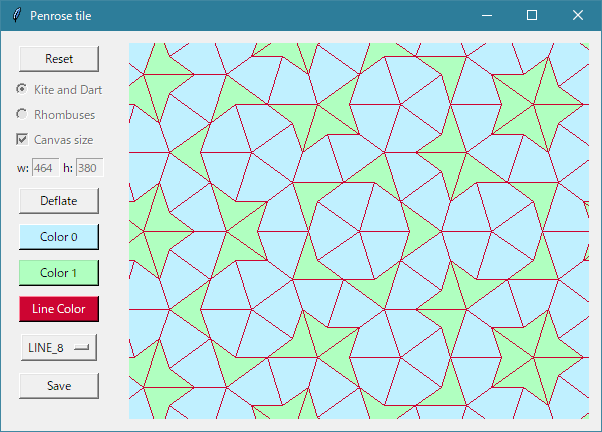
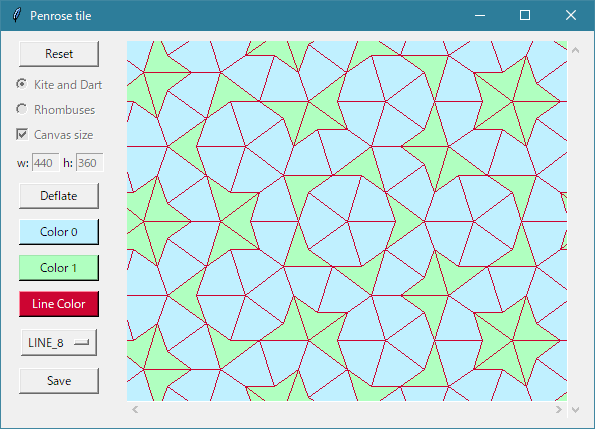
Canvas is scrollable

diff --git a/penrose_tile.py b/penrose_tile.py
@@ -181,7 +181,7 @@ class MainWindow(tk.Tk):
     """
     def __init__(self):
         super().__init__()
-        self.minsize(600, 400)
+        self.minsize(593, 397)
         self.title("Penrose tile")
 
         # モード
@@ -218,12 +218,12 @@ class MainWindow(tk.Tk):
         """
         # ボタン用のフレーム (サイドバー)
         self.button_frame = tk.Frame()
-        self.button_frame.pack(padx=5, pady=10, side=tk.LEFT, fill=tk.Y)
+        self.button_frame.pack(padx=5, pady=5, side=tk.LEFT, fill=tk.Y)
 
         # キャンバス用のフレーム
         self.canvas_frame = tk.Frame()
         self.canvas_frame.pack(
-            padx=5, pady=5, side=tk.LEFT, fill=tk.BOTH, expand=1)
+            padx=10, pady=10, side=tk.LEFT, fill=tk.BOTH, expand=1)
 
         # リセットボタン
         self.reset_btn = tk.Button(
@@ -254,21 +254,21 @@ class MainWindow(tk.Tk):
 
         # ラベル (w:)
         w_lbl = tk.Label(dims_frame, text='w:')
-        w_lbl.pack(padx=0, pady=0, side=tk.LEFT, anchor=tk.W)
+        w_lbl.pack(side=tk.LEFT, anchor=tk.W)
 
         # サイズ (w) のテキストフィールド
         self.w_txt = tk.Entry(dims_frame, width=4, state=tk.DISABLED)
-        self.w_txt.pack(padx=0, pady=0, side=tk.LEFT, anchor=tk.W)
+        self.w_txt.pack(side=tk.LEFT, anchor=tk.W)
         vcmd_w = (self.w_txt.register(validate_digit), '%s', '%P')
         self.w_txt.configure(validate='key', vcmd=vcmd_w)
 
         # ラベル (h:)
         h_lbl = tk.Label(dims_frame, text='h:')
-        h_lbl.pack(padx=0, pady=0, side=tk.LEFT, anchor=tk.W)
+        h_lbl.pack(side=tk.LEFT, anchor=tk.W)
 
         # サイズ (h) のテキストフィールド
         self.h_txt = tk.Entry(dims_frame, width=4, state=tk.DISABLED)
-        self.h_txt.pack(padx=0, pady=0, side=tk.LEFT, anchor=tk.W)
+        self.h_txt.pack(side=tk.LEFT, anchor=tk.W)
         vcmd_h = (self.h_txt.register(validate_digit), '%s', '%P')
         self.h_txt.configure(validate='key', vcmd=vcmd_w)
 
@@ -311,10 +311,25 @@ class MainWindow(tk.Tk):
             text='Save', command=self.save, width=10, state=tk.DISABLED)
         self.save_btn.pack(padx=5, pady=5, side=tk.TOP)
 
+        # 縦スクロールバー
+        self.bar_y = tk.Scrollbar(self.canvas_frame, orient=tk.VERTICAL)
+        self.bar_y.pack(side=tk.RIGHT, fill=tk.Y)
+
+        # 横スクロールバー
+        self.bar_x = tk.Scrollbar(self.canvas_frame, orient=tk.HORIZONTAL)
+        self.bar_x.pack(side=tk.BOTTOM, fill=tk.X)
+
         # キャンバス
-        self.canvas = tk.Canvas(self.canvas_frame, bg='white')
-        self.canvas.pack(padx=5, pady=5, fill=tk.BOTH, expand=1)
+        self.canvas = tk.Canvas(
+            self.canvas_frame, bd=0, highlightthickness=0, bg='white')
+        self.canvas.pack(fill=tk.BOTH, expand=1)
         self.canvas.bind('<Configure>', self.canvas_resized)
+
+        # スクロールバーの関連付け
+        self.bar_y.config(command=self.canvas.yview)
+        self.bar_x.config(command=self.canvas.xview)
+        self.canvas.config(
+            yscrollcommand=self.bar_y.set, xscrollcommand=self.bar_x.set)
 
     def reset(self):
         """状態をリセットして設定を編集可能にする
@@ -344,6 +359,9 @@ class MainWindow(tk.Tk):
             self.indicate_canvas_size()
             self.w_txt['state'] = tk.DISABLED
             self.h_txt['state'] = tk.DISABLED
+
+        # キャンバスのスクロール範囲をリセット
+        self.canvas.config(scrollregion=(0, 0, 0, 0))
 
         # 収縮ボタンのテキストを変更する
         self.def_btn['text'] = 'Initialize'
@@ -392,6 +410,12 @@ class MainWindow(tk.Tk):
             self.mode = MODE_DRAWING
             self.reset_btn['state'] = tk.NORMAL
 
+            # w, h が空なら現在のキャンバスのサイズから取る
+            if not self.w_txt.get():
+                self.w_txt.insert(tk.END, str(self.canvas.winfo_width()))
+            if not self.h_txt.get():
+                self.h_txt.insert(tk.END, str(self.canvas.winfo_height()))
+
             # 設定用の UI を編集不可にする
             self.ptn_rdb_k_and_d['state'] = tk.DISABLED
             self.ptn_rdb_rhombuses['state'] = tk.DISABLED
@@ -399,8 +423,11 @@ class MainWindow(tk.Tk):
             self.w_txt['state'] = tk.DISABLED
             self.h_txt['state'] = tk.DISABLED
 
-            # パターンとキャンバスを初期化する
+            # パターンを初期化する
             self.initialize()
+
+            # キャンバスのスクロール範囲を決める
+            self.canvas.config(scrollregion=(0, 0, *self.img_size))
 
             # 保存ボタンをクリック可能にする
             self.save_btn['state'] = tk.NORMAL
@@ -408,28 +435,29 @@ class MainWindow(tk.Tk):
             # 収縮ボタンのテキストを変更する
             self.def_btn['text'] = 'Deflate'
 
-        # 通常の収縮処理
+        # 収縮と描画の処理
         if getattr(self, 'pattern', None):
             self.pattern.subdivide()
             self.draw_pattern()
 
     def initialize(self):
-        """初期状態のパターンを作ってキャンバスを初期化する
+        """初期状態のパターンを生成する
         """
+        # 画像サイズを確定する
         if self.fit_canvas.get():
             w = self.canvas.winfo_width()
             h = self.canvas.winfo_height()
         else:
             w = int(self.w_txt.get())
             h = int(self.h_txt.get())
-
         self.img_size = Size(w, h)
 
+        # パラメタを確定する
         type = self.ptn_type.get()
         colors = [c[0] for c in self.colors]
         ltype = self.ltype.get()
 
-        # 初期状態のパターンを生成する
+        # 初期パターンを生成する
         self.pattern = Pattern(type, self.img_size, colors, ltype)
 
     def draw_pattern(self):

diff --git a/README.md b/README.md
@@ -24,3 +24,5 @@ GUI は Tkinter です。
 - [How to construct Penrose tilings](https://tartarus.org/~simon/20110412-penrose/penrose.xhtml)
 - [Python, OpenCVで図形描画（線、長方形、円、矢印、文字など） | note.nkmk.me](https://note.nkmk.me/python-opencv-draw-function/)
 - [Tkinterで作成したウインドウにOpenCV-Pythonの画像を表示 - Qiita](https://qiita.com/mizoe@github/items/bc56441e80b3ccd5b2a4)
+- [Tkinter 入門: 2. Widget を配置しよう](https://www.shido.info/py/tkinter2.html)
+- [tkinterでスクロールを表示するサンプル - Qiita](https://qiita.com/hatorijobs/items/afa037278ef442cddbc5)
